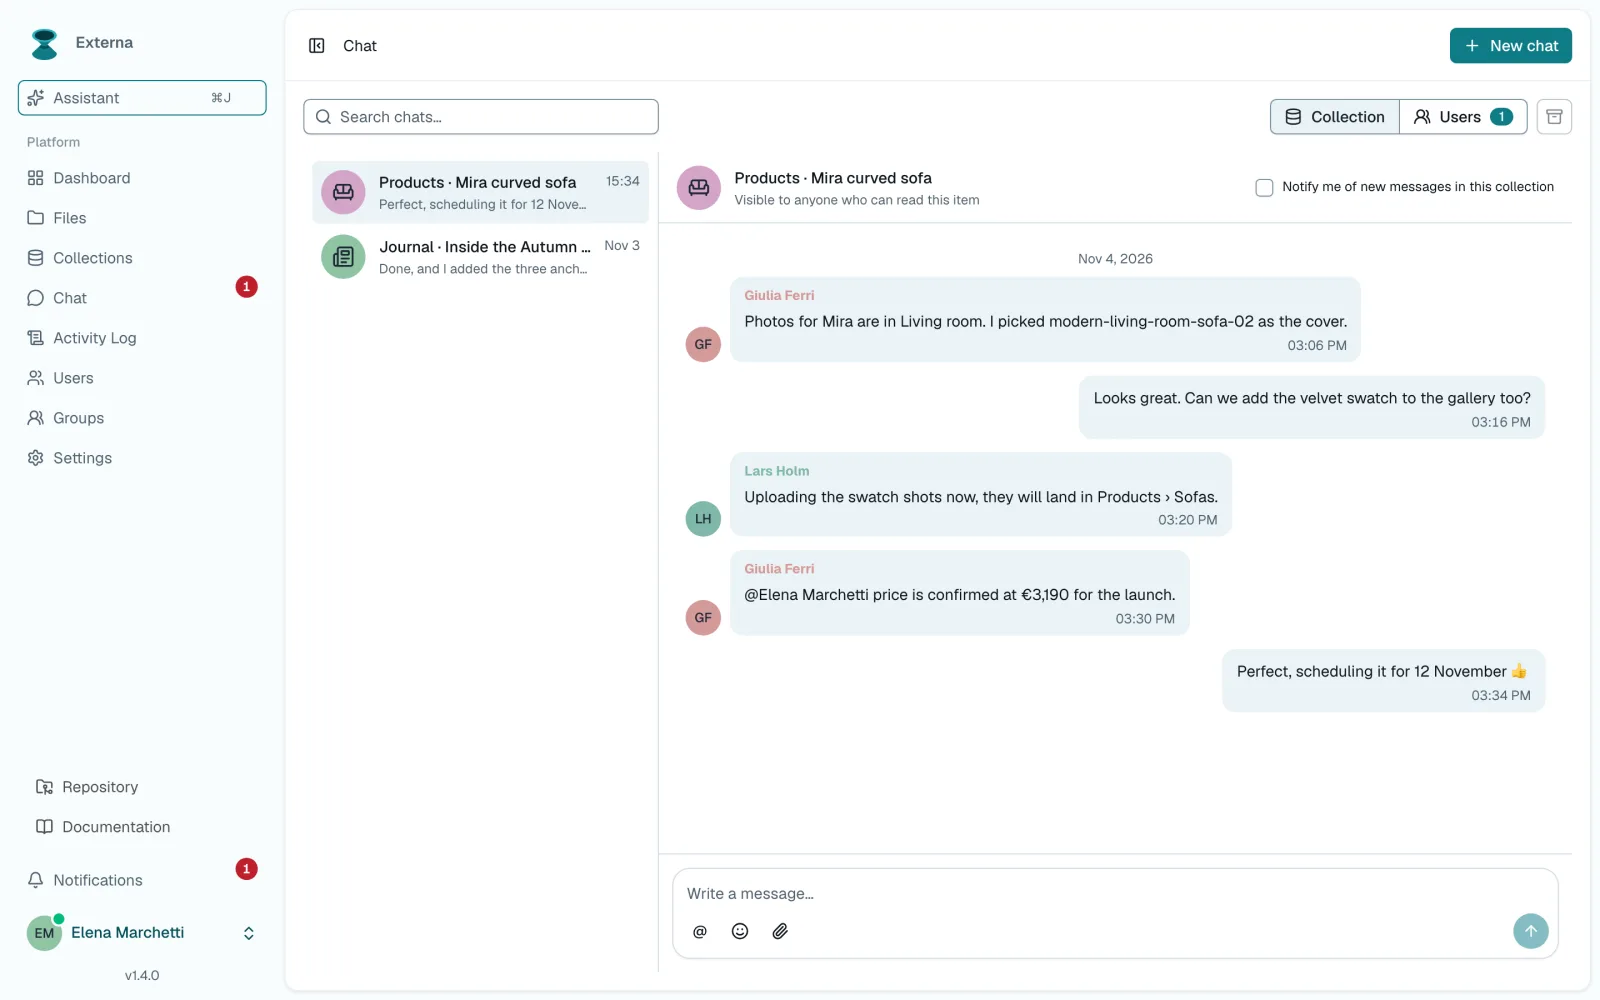
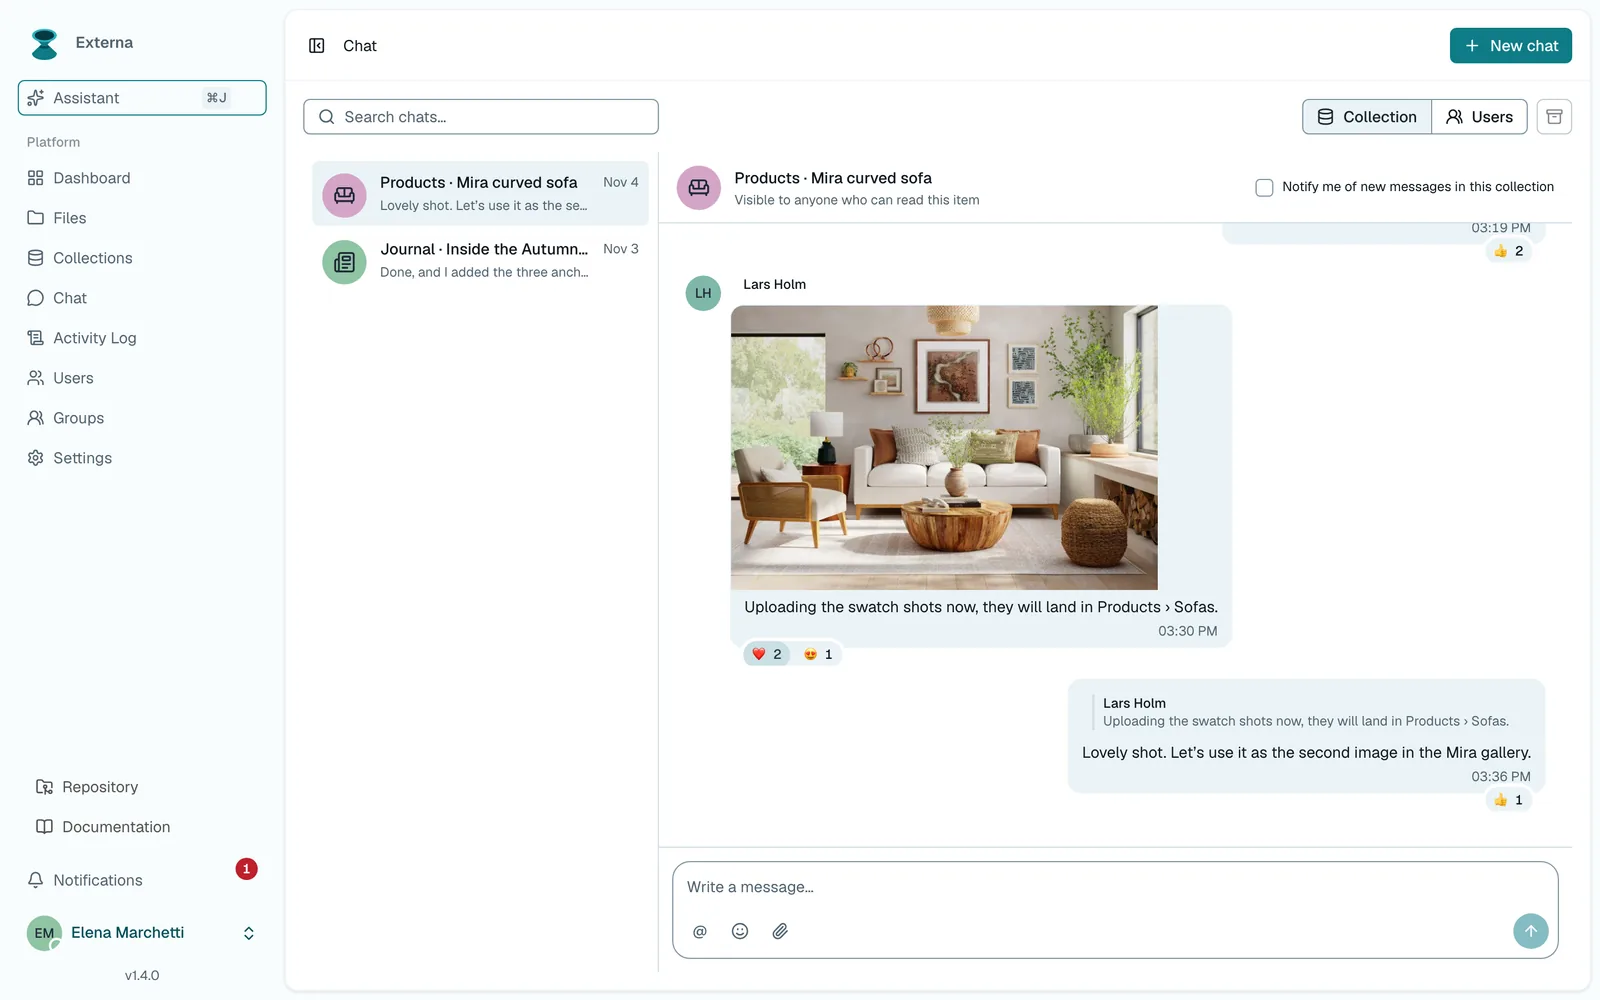
docs(readme): retake the admin screenshots on the shadcn/ui rebuild

diff --git a/README.md b/README.md
@@ -213,7 +213,7 @@ Shots from the admin with demo content, in light and dark (they follow your GitH
 <p align="center">
   <picture>
     <source media="(prefers-color-scheme: dark)" srcset="docs/images/file-manager-dark.webp">
-    <img src="docs/images/file-manager-light.webp" alt="File manager with folders, photos and documents" width="800" />
+    <img src="docs/images/file-manager-light.webp" alt="File manager with folders, photos, documents and a selected file" width="800" />
   </picture>
   <br />
   <em>File manager — folders, assets and tags</em>
@@ -222,7 +222,7 @@ Shots from the admin with demo content, in light and dark (they follow your GitH
 <p align="center">
   <picture>
     <source media="(prefers-color-scheme: dark)" srcset="docs/images/ai-chat-dark.webp">
-    <img src="docs/images/ai-chat-light.webp" alt="AI assistant answering from collection data" width="800" />
+    <img src="docs/images/ai-chat-light.webp" alt="AI assistant answer with reasoning, tool calls and sources" width="800" />
   </picture>
   <br />
   <em>Assistant — answers and actions with your permissions</em>
@@ -231,7 +231,7 @@ Shots from the admin with demo content, in light and dark (they follow your GitH
 <p align="center">
   <picture>
     <source media="(prefers-color-scheme: dark)" srcset="docs/images/chat-dark.webp">
-    <img src="docs/images/chat-light.webp" alt="Item chat thread on a product" width="800" />
+    <img src="docs/images/chat-light.webp" alt="Item chat on a product with an image, reactions and a reply" width="800" />
   </picture>
   <br />
   <em>Chat — item and private threads</em>
